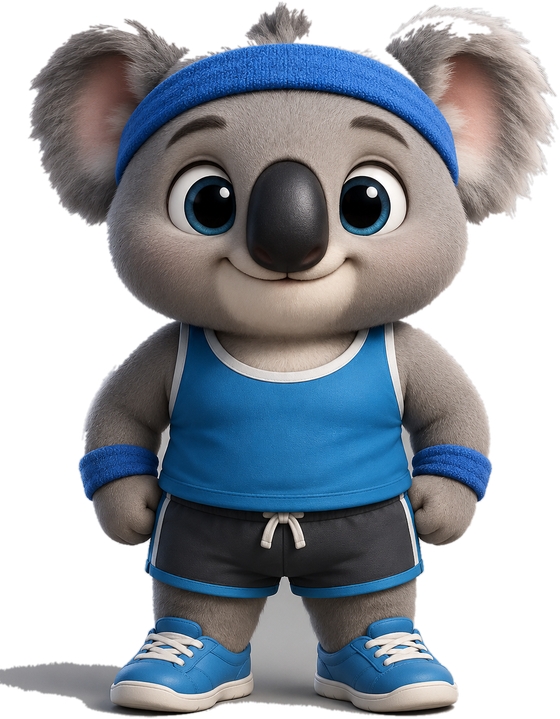
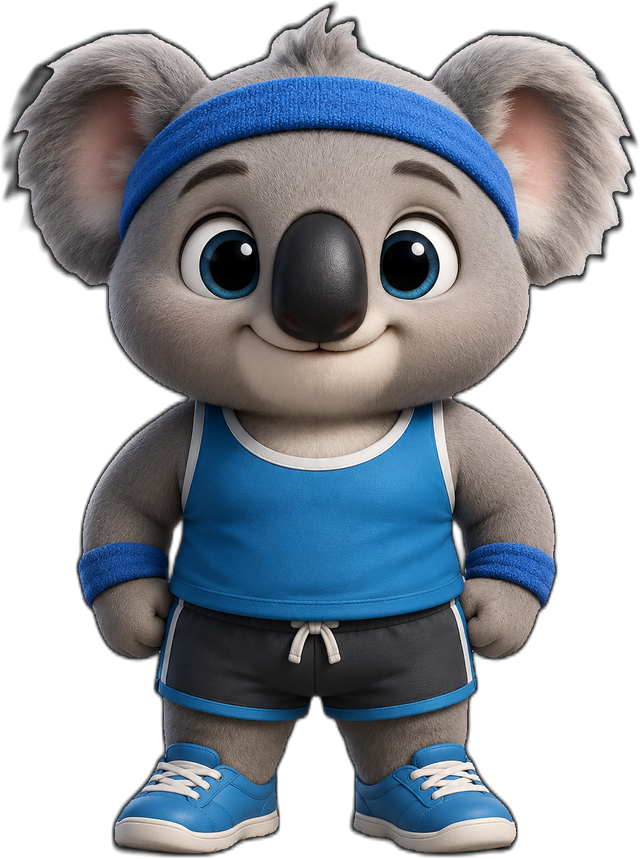
Companion: clean Koa cutout via U2Net matting
Re-cut the Koa art with U2Net alpha matting instead of colour-key
flood-fill: soft natural fur edges (no jaggies), no grey matte fringe
(premultiplied defringe), and the ground shadow removed. Higher-res
640px asset; registry aspect updated.

Claude-Session: https://claude.ai/code/session_01N7h7jgyhMnHfFhiAQrhY5B

diff --git a/native/src/lib/mascot-images.ts b/native/src/lib/mascot-images.ts
@@ -28,7 +28,7 @@ export interface MascotImageSet {
 export const MASCOT_IMAGES: Record<string, MascotImageSet> = {
   koa: {
     idle: require('../../assets/mascots/koa.png'),
-    aspect: 719 / 560,
+    aspect: 859 / 640,
   },
 };
 
